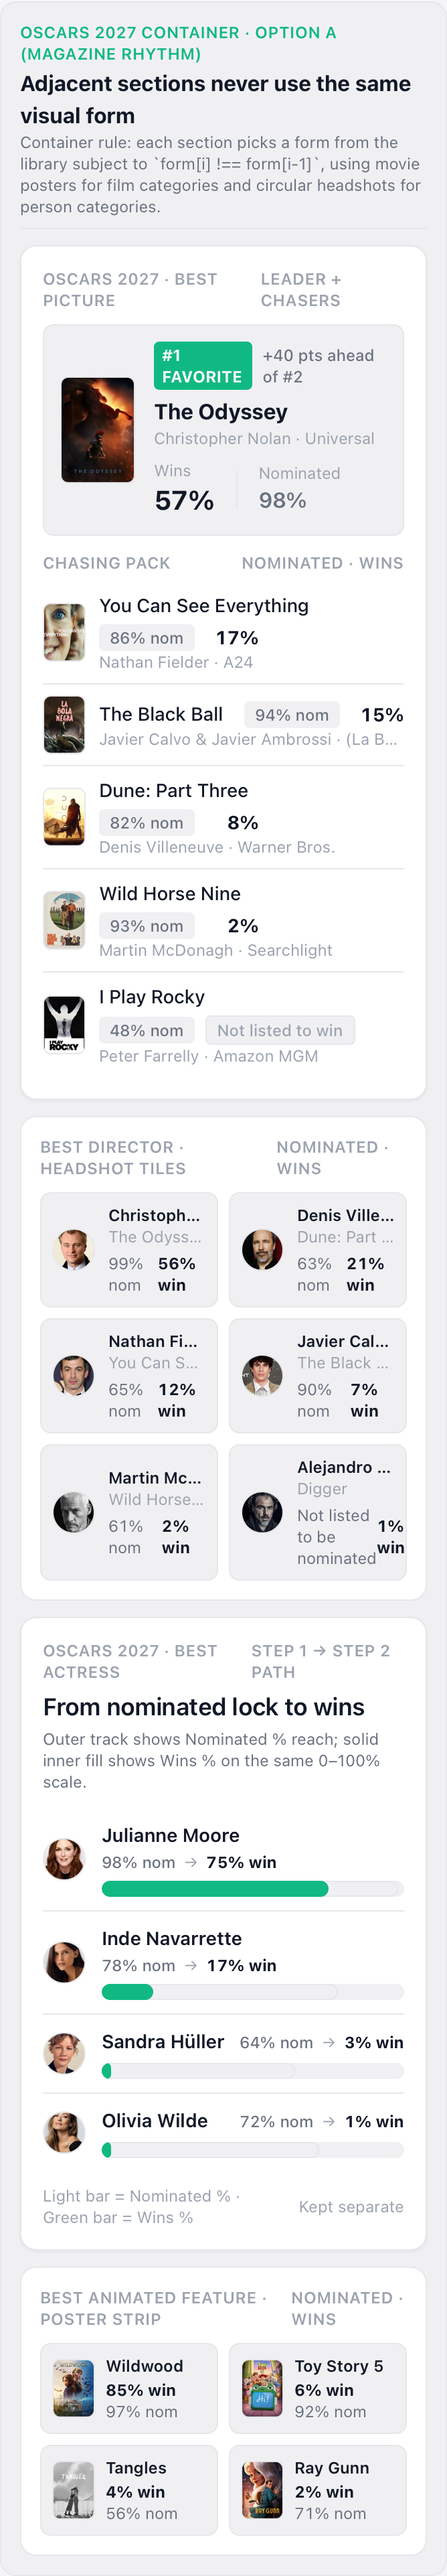
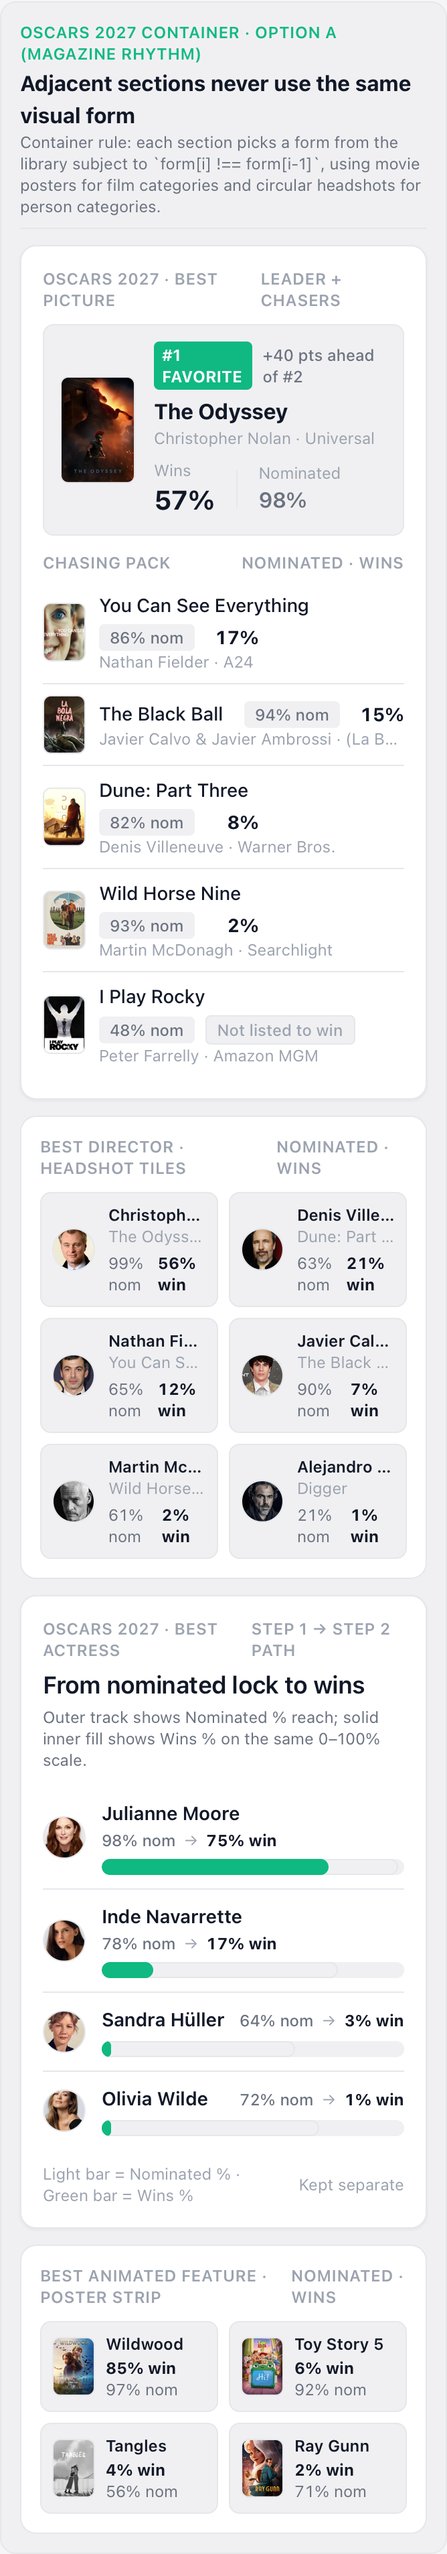
Pair Alejandro Gonzalez Inarritu (20.5% nom / 1.4% win) and sync Card 6 deck rows
- Pair 'Alejandro González Iñárritu' in Best Director nominees (#5601024, 0.205 -> 21% nom) with 'Alejandro G. Iñárritu' in Best Director winner (#5869747, 0.014 -> 1% win)
- Sync visual-forms-look-sheet.json Card 6 rows with the drawn card (✓ Wild Horse Nine, ✗ Artificial, ✗ I Play Rocky)
- Refresh Container A and Container C 390 px screenshots

diff --git a/frontend/lib/discover/visualForms.ts b/frontend/lib/discover/visualForms.ts
@@ -692,9 +692,8 @@ export const PAIRED_METRIC_REGISTER: Record<string, PairedMetricSet> = {
         subject: "Alejandro G. Iñárritu",
         detail: "Digger",
         stage_1_market_id: 5601024,
-        stage_1_outcome: null,
-        stage_1_probability: null,
-        missing_stage_1_reason: "Not listed to be nominated",
+        stage_1_outcome: "Alejandro González Iñárritu",
+        stage_1_probability: 0.205,
         stage_1_settled_state: null,
         stage_2_market_id: 5869747,
         stage_2_outcome: "Alejandro G. Iñárritu",
@@ -1329,7 +1328,7 @@ export const OSCARS_CONTAINER_LOOK_SHEET_OPTIONS: ContainerLookSheetSpec[] = [
     option_code: "C",
     title: "Container C · Two-Act Ballot (90%+ Nomination Locks Rail + Category Cards)",
     subtitle:
-      "Act I: Horizontal rail of 90%+ nomination locks across categories (Nolan 99%, Odyssey 98%, Moore 98%, Wildwood 97%, Malkovich 95%) → Act II: Film Poster Dual Bars vs Acting/Directing Headshot Strips",
+      "Act I: 2-up grid of 90%+ nomination locks across categories (Nolan 99%, Odyssey 98%, Moore 98%, Wildwood 97%, Malkovich 95%, The Black Ball 94%) → Act II: Best Picture Poster Tile Grid + Best Director Headshot Conversion Path",
     rule_summary:
       "Container rule: separates 'What's locked for January nominations?' at the top from 'Who wins the statue in March?' below, and flips the top rail to ✓ Confirmed Nominees on nomination morning.",
   },

diff --git a/frontend/__tests__/discover/visualFormsLookSheet12577.test.tsx b/frontend/__tests__/discover/visualFormsLookSheet12577.test.tsx
@@ -76,10 +76,16 @@ describe("#12577 / #12523 Visual Form Library & Look Sheet", () => {
       e.subject.includes("Iñárritu"),
     );
     expect(inarritu).toBeDefined();
+    expect(inarritu?.stage_1_outcome).toBe("Alejandro González Iñárritu");
     expect(formatStage1Display(inarritu!, dirSet)).toEqual({
-      kind: "missing",
-      percent: null,
-      label: "Not listed to be nominated",
+      kind: "percent",
+      percent: 21,
+      label: "21%",
+    });
+    expect(formatStage2Display(inarritu!, dirSet)).toEqual({
+      kind: "percent",
+      percent: 1,
+      label: "1%",
     });
 
     const actSet = PAIRED_METRIC_REGISTER["oscars-2027-best-actress"];
@@ -193,7 +199,6 @@ describe("#12577 / #12523 Visual Form Library & Look Sheet", () => {
     // Missing probability notices render explicitly
     expect(html).toContain('data-testid="missing-probability-notice"');
     expect(html).toContain("Not listed to win");
-    expect(html).toContain("Not listed to be nominated");
 
     // Card 6 carries "Illustration: nominations aren't out" on the card itself
     expect(html).toContain('data-testid="settled-gate-illustration-banner"');

diff --git a/frontend/components/discover/forms/VisualFormLookSheet.tsx b/frontend/components/discover/forms/VisualFormLookSheet.tsx
@@ -1152,7 +1152,7 @@ export function OscarsContainerLayoutPreview({
         set={dirSet}
         simulateSettled={simulateSettled}
         kidSurface={kidSurface}
-        maxRows={5}
+        maxRows={6}
       />
     </section>
   );
